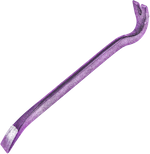
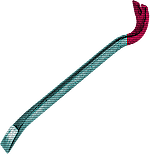
0.23
quality of life/ spelling fixes

Changed region(s): [[0.0, 0.0, 1.0, 1.0]]

diff --git a/core_scripts/commands.js b/core_scripts/commands.js
@@ -71,10 +71,10 @@ commands = {
             if (itemNames.indexOf(words) != -1){
                 slot = itemNames.indexOf(words) + 1
                 player.addItem(currentRoom().items[slot])
-                if (currentRoom().items.length == 1){currentRoom().items[0] = false}
                 if (currentRoom().items[slot].canPickUp ==true){
                     currentRoom().removeItem(slot)
                 }
+                if (currentRoom().items.length == 1){currentRoom().items[0] = false}
             
 
         }else{println("There is no " + words + " to take!")}
@@ -110,6 +110,8 @@ commands = {
             }
             else if (words == ""){
                 roomUnpacker()
+            }else{
+                println("You don't see " + words + " here or on you.")
             }
         }
 
@@ -117,7 +119,7 @@ commands = {
     },
 
     use: {
-        description: "Use <br> Type use followed by an object in the room to attempt to use it",
+        description: "Use <br> Type use followed by an object in the room to attempt to use it. If you type \" use object on object \" you will attempt to use the first object on the second.",
         trigger: function(words){
             if (words.indexOf("on") == -1){
                 words = words.join(" ")

diff --git a/core_scripts/dist/commands.dev.js b/core_scripts/dist/commands.dev.js
@@ -79,12 +79,12 @@ commands = {
         slot = itemNames.indexOf(words) + 1;
         player.addItem(currentRoom().items[slot]);
 
-        if (currentRoom().items.length == 1) {
-          currentRoom().items[0] = false;
-        }
-
         if (currentRoom().items[slot].canPickUp == true) {
           currentRoom().removeItem(slot);
+        }
+
+        if (currentRoom().items.length == 1) {
+          currentRoom().items[0] = false;
         }
       } else {
         println("There is no " + words + " to take!");
@@ -117,11 +117,13 @@ commands = {
         player.inventory[slot].getLook();
       } else if (words == "") {
         roomUnpacker();
+      } else {
+        println("You don't see " + words + " here or on you.");
       }
     }
   },
   use: {
-    description: "Use <br> Type use followed by an object in the room to attempt to use it",
+    description: "Use <br> Type use followed by an object in the room to attempt to use it. If you type \" use object on object \" you will attempt to use the first object on the second.",
     trigger: function trigger(words) {
       if (words.indexOf("on") == -1) {
         words = words.join(" ");

diff --git a/assets/dist/objects.dev.js b/assets/dist/objects.dev.js
@@ -65,13 +65,18 @@ function () {
     key: "getLook",
     value: function getLook() {
       if (this.picture != null) {
-        console.log("yee");
+        console.log(this.picture);
         printImage(this.picture);
         println(this.lookDescription);
       } else {
         console.log("no");
         println(this.lookDescription);
       }
+    }
+  }, {
+    key: "comboFail",
+    value: function comboFail() {
+      println("you cannot use " + secondItem.name + " on " + this.name + ".");
     }
   }]);
 
@@ -126,6 +131,8 @@ function useFunction() //useFunction
     } else {
       println("The lock is already broken.");
     }
+  } else {
+    this.comboFail;
   }
 });
 var scrapMetal = new gameObject("scrap metal", //name
@@ -136,7 +143,6 @@ null, //useFunction
 var crowbar = new gameObject("crowbar", "a Crowbar", true, function useFunction() {
   println("This is a useful item but not by it self");
 }, "The crowbar is blue and has a red top.", function comboUse(secondItem) {
-  console.log("adfaas");
   crowbarUses(secondItem);
 }, "crowbar.png");
 /* Template

diff --git a/assets/objects.js b/assets/objects.js
@@ -38,7 +38,7 @@ class gameObject{
 
     getLook(){
         if (this.picture != null){
-            console.log("yee")
+            console.log(this.picture)
             printImage(this.picture)
             println(this.lookDescription)
         }else{
@@ -46,6 +46,10 @@ class gameObject{
             println (this.lookDescription)
         }
         
+    }
+
+    comboFail(){
+        println ("you cannot use " + secondItem.name + " on " + this.name + ".")
     }
 
 }
@@ -90,7 +94,7 @@ var steelDoor = new gameObject(
                 this.lookDescription = "This door used to have a steel lock on it. It's now broken and on the ground."
                 northRoom().passageNLocked[0] = false
             }else{println("The lock is already broken.")}
-        }
+        }else{this.comboFail}
     }
 
 )
@@ -113,7 +117,6 @@ var crowbar = new gameObject(
     },
     "The crowbar is blue and has a red top.",
     function comboUse(secondItem) {
-        console.log("adfaas")
         crowbarUses(secondItem)
     },
     "crowbar.png"

diff --git a/assets/rooms.js b/assets/rooms.js
@@ -131,7 +131,7 @@ class Room{
 //starter room
 var starterRoom = new Room(
     "Starting room", //name
-    "This room looks like an abandon machine shop. The floor is cluttered with tools and scrap metal.", //Description
+    "This room looks like an abandoned machine shop. The floor is cluttered with tools and scrap metal.", //Description
     ["north", [3,2]], // exits 
     [4,2],//location
     [true,rustyNail,steelDoor, scrapMetal], //items

diff --git a/assets/dist/rooms.dev.js b/assets/dist/rooms.dev.js
@@ -146,7 +146,7 @@ function () {
 
 
 var starterRoom = new Room("Starting room", //name
-"This room looks like an abandon machine shop. The floor is cluttered with tools and scrap metal.", //Description
+"This room looks like an abandoned machine shop. The floor is cluttered with tools and scrap metal.", //Description
 ["north", [3, 2]], // exits 
 [4, 2], //location
 [true, rustyNail, steelDoor, scrapMetal], //items
